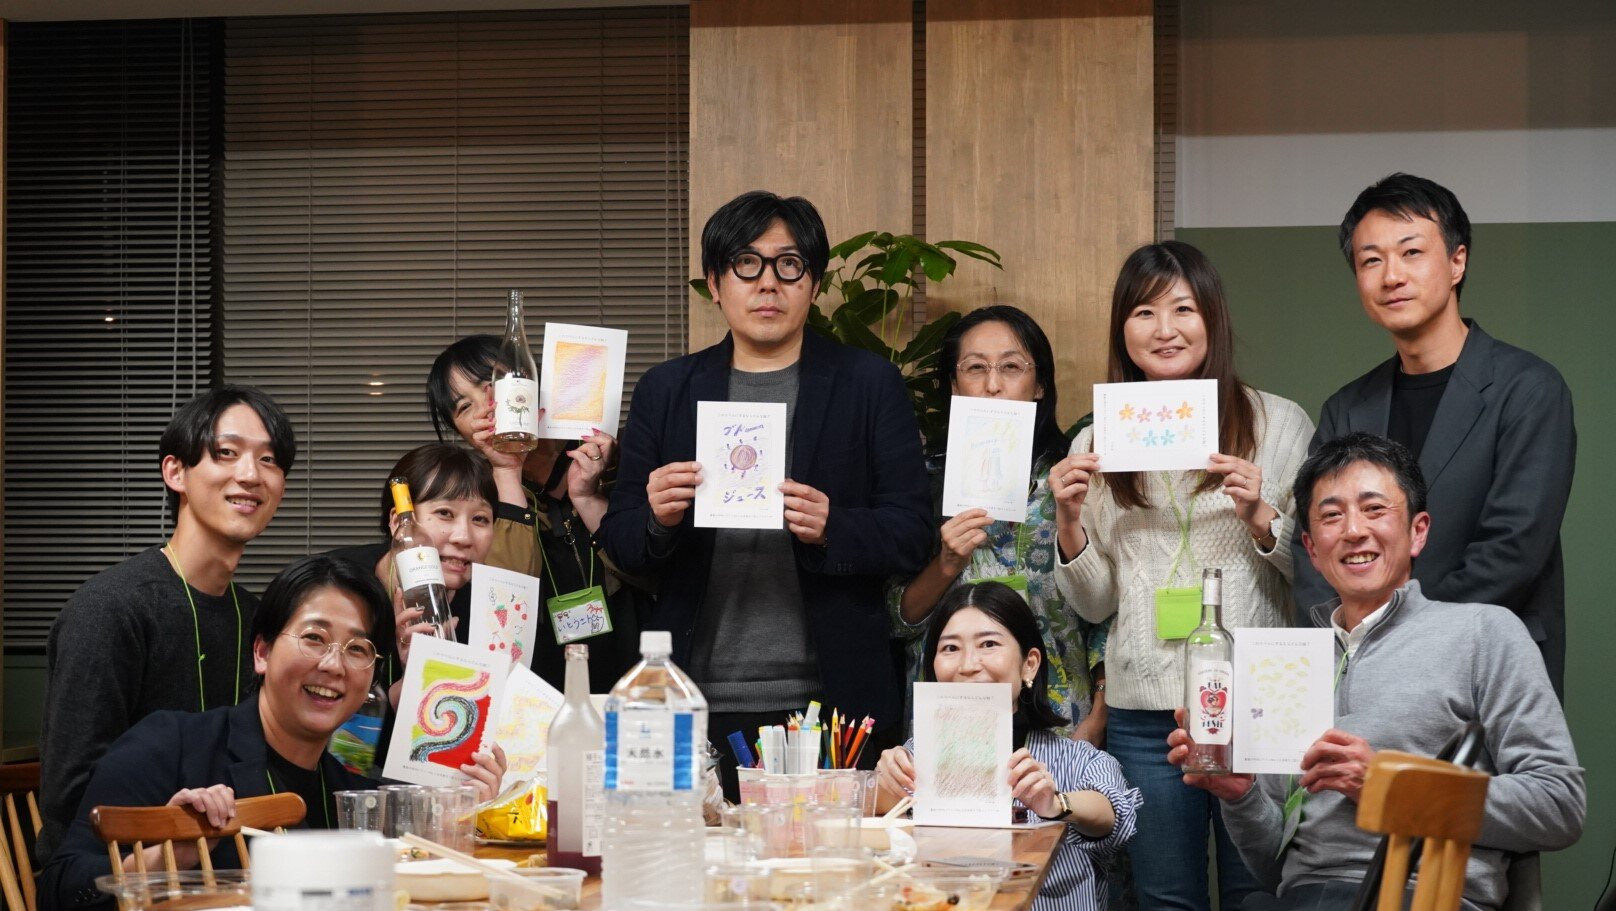
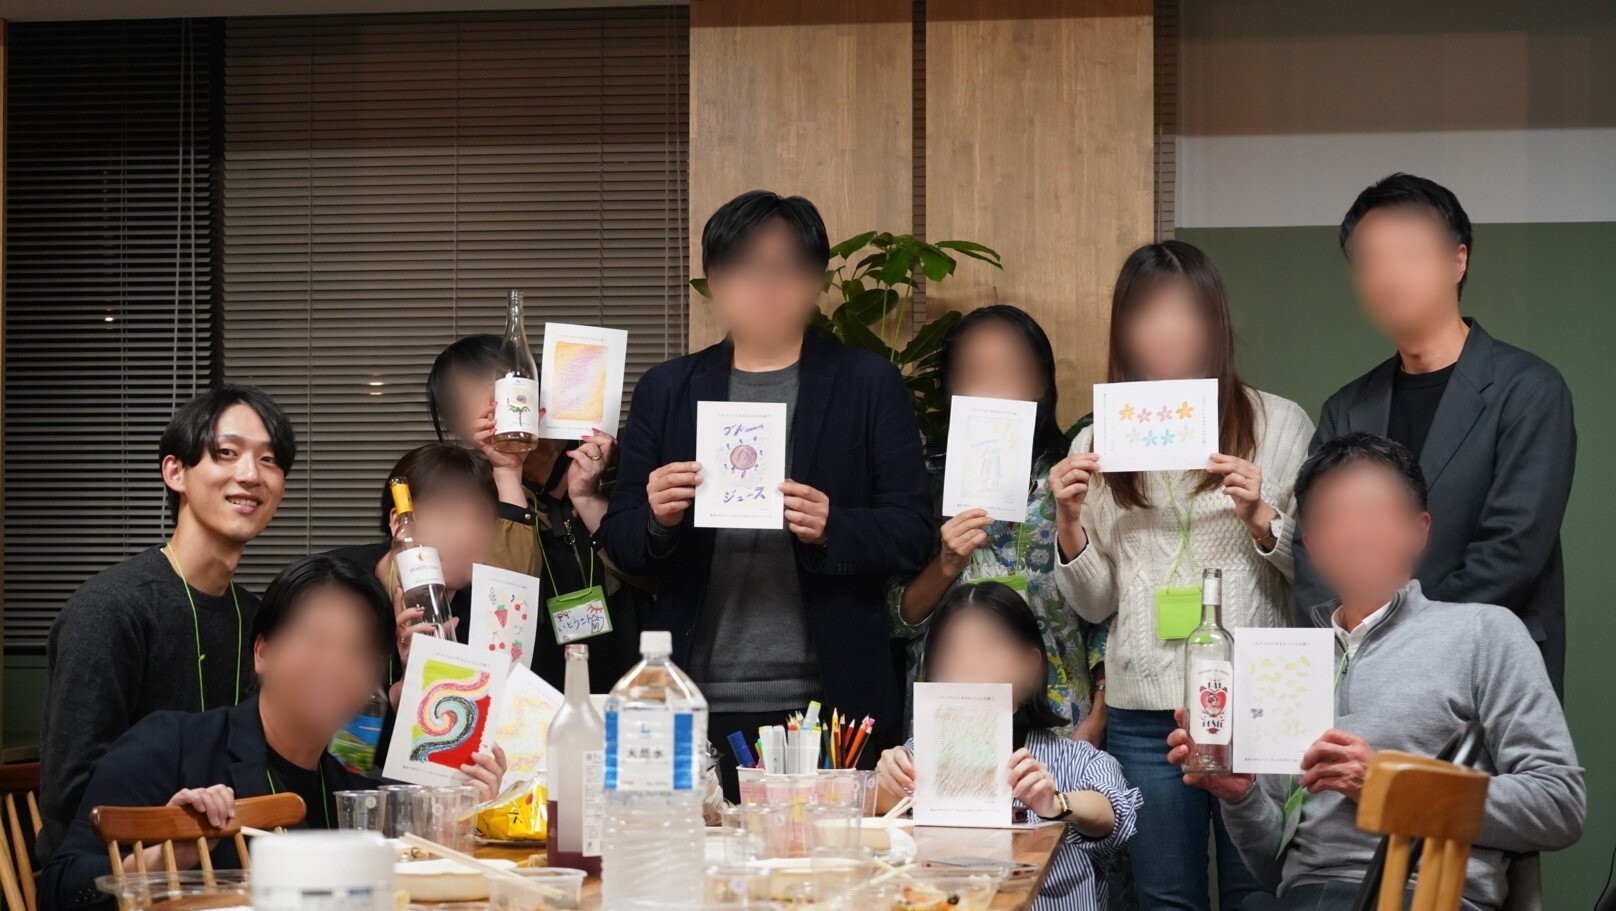
Blur wine club group faces except the user-confirmed leftmost participant

diff --git a/src/lib/__tests__/optimizedImage.test.ts b/src/lib/__tests__/optimizedImage.test.ts
@@ -1,16 +1,18 @@
 import { optimizedImage } from '../optimizedImage';
 
-it('routes every size and format of a privacy-edited photo to its versioned asset', () => {
-  const original = '/images/portfolio/culture-beer-01.jpg';
-  const edited = '/images/portfolio/culture-beer-01-private.webp';
-  for (const type of ['display', 'thumbs'] as const) {
-    for (const width of [320, 480, 1200, 1600, 2400]) {
-      for (const format of ['avif', 'webp'] as const) {
-        expect(optimizedImage(original, { type, width, format })).toBe(edited);
+it('routes privacy-edited photos to versioned assets for every size and format', () => {
+  for (const name of ['culture-beer-01', 'culture-wine-05']) {
+    const original = '/images/portfolio/' + name + '.jpg';
+    const edited = '/images/portfolio/' + name + '-private.webp';
+    for (const type of ['display', 'thumbs'] as const) {
+      for (const width of [320, 480, 1200, 1600, 2400]) {
+        for (const format of ['avif', 'webp'] as const) {
+          expect(optimizedImage(original, { type, width, format })).toBe(edited);
+        }
       }
     }
+    expect(optimizedImage(edited)).toBe(edited);
   }
-  expect(optimizedImage(edited)).toBe(edited);
   expect(optimizedImage('/images/test.jpg')).toBe('/optimized/display/test-1600.webp');
   expect(optimizedImage('/images/test.svg')).toBe('/images/test.svg');
 });

diff --git a/src/lib/optimizedImage.ts b/src/lib/optimizedImage.ts
@@ -1,4 +1,5 @@
 const privacyEdits: Record<string, string> = {
+  '/images/portfolio/culture-wine-05.jpg': '/images/portfolio/culture-wine-05-private.webp',
   '/images/portfolio/culture-beer-01.jpg': '/images/portfolio/culture-beer-01-private.webp',
 };
 const editedImages = new Set(Object.values(privacyEdits));
